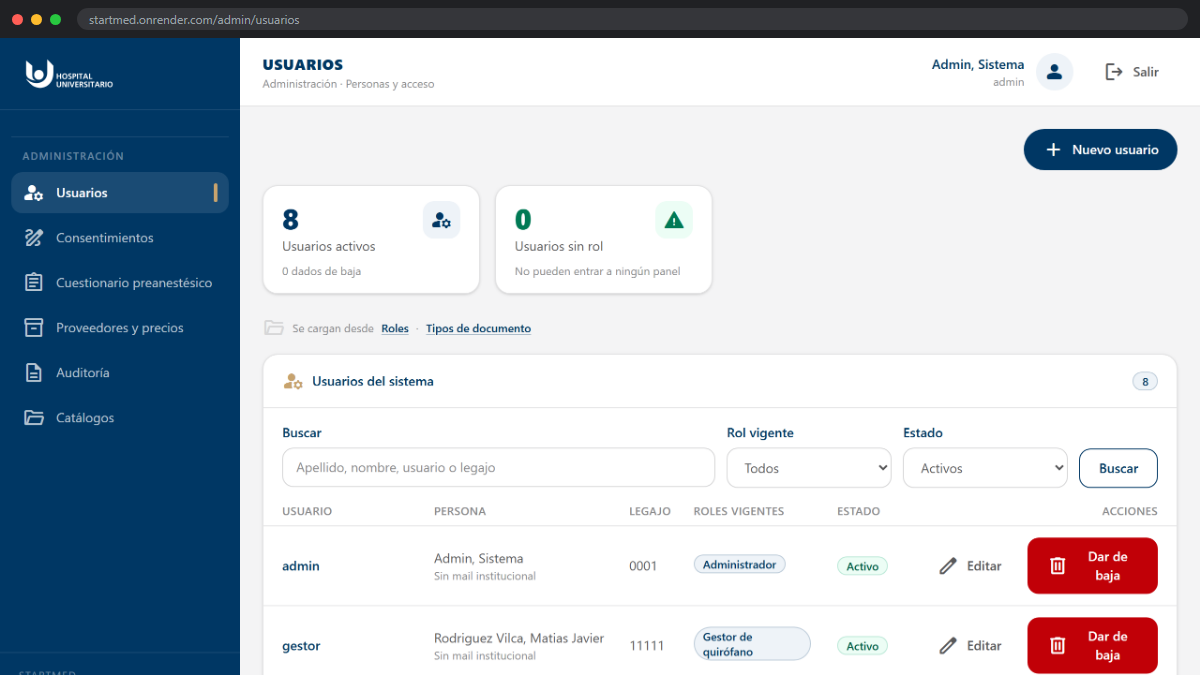
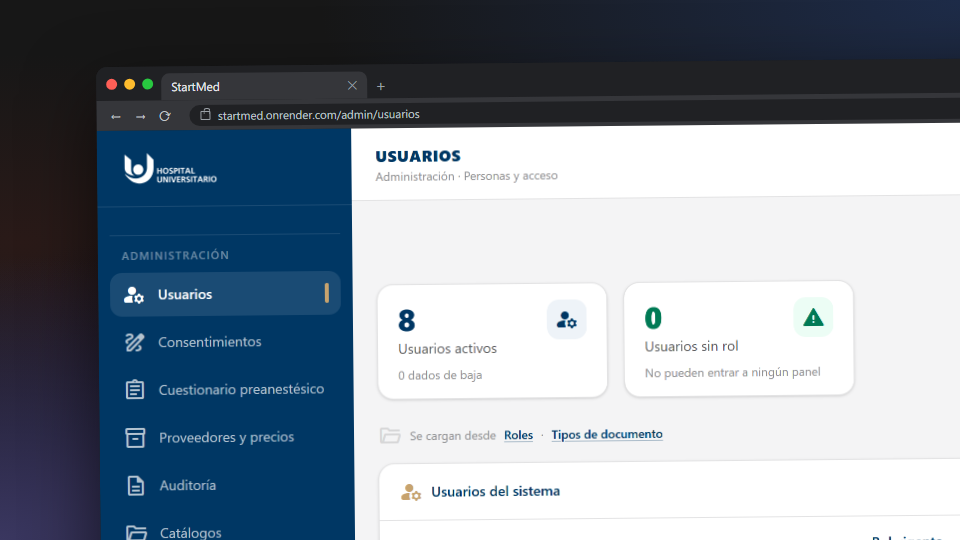
style(projects): igualar el mockup de StartMed al de las otras capturas
Las otras cuatro capturas salieron todas del mismo generador de mockups: fondo
oscuro con resplandor azul arriba a la derecha y violeta abajo, ventana de
navegador que arranca en (96,67), esquinas redondeadas y sangria por derecha y
abajo. La de StartMed tenia el marco pegado a los bordes, sin fondo ni margen,
y por eso desentonaba en la grilla.

El mockup se rehizo replicando esa plantilla, con los colores muestreados del
propio Gamepedia.png y la misma geometria, incluida la rotacion de 0.55 grados.

Tambien pasa de 1200x675 a 960x540, que es el tamano de las otras tres.

diff --git a/src/components/Projects.tsx b/src/components/Projects.tsx
@@ -53,8 +53,8 @@ const PROJECTS = [
       },
     ],
     image: "/images/StartMed.png",
-    width: 1200,
-    height: 675,
+    width: 960,
+    height: 540,
     tags: [
       TAGS.LARAVEL,
       TAGS.PHP,
